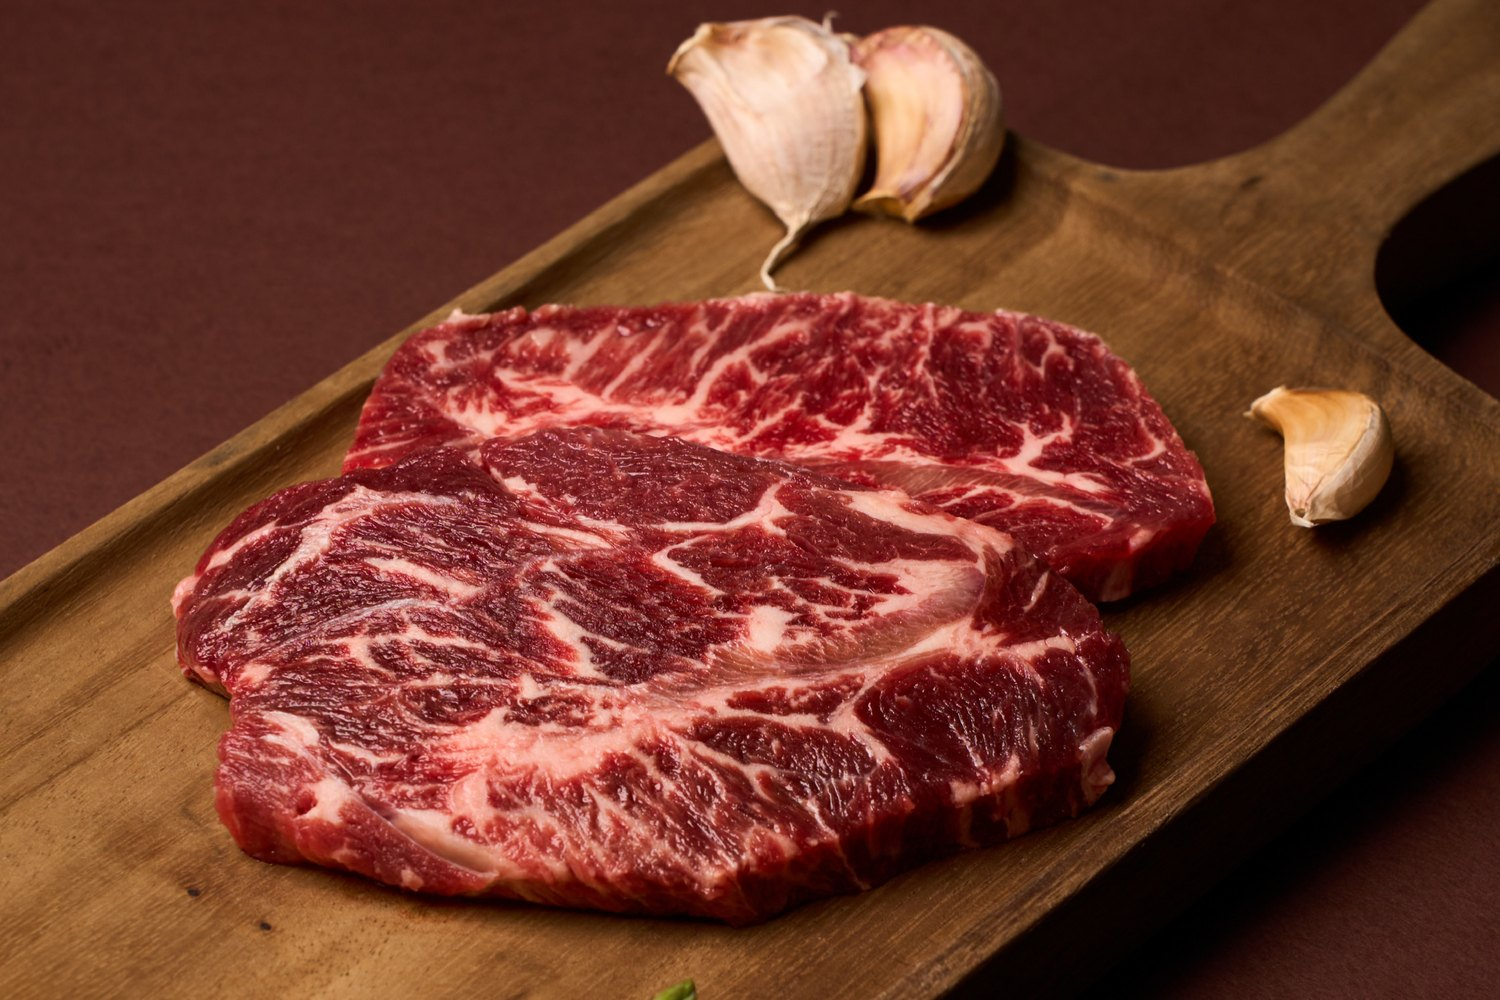
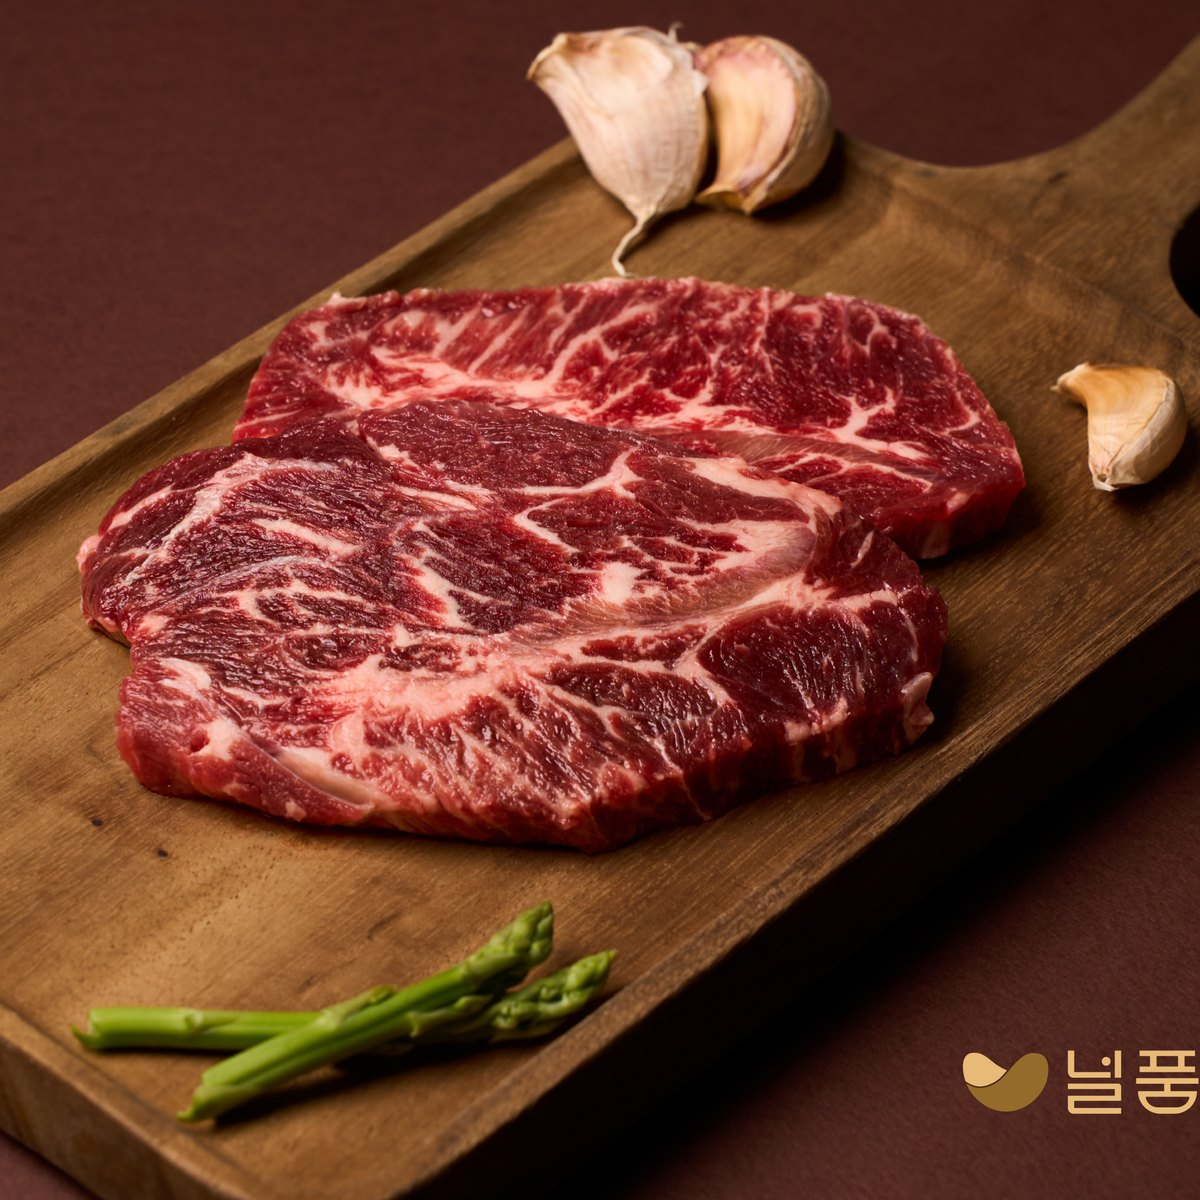
널품 사진 잘림 수정(정사각 비율·파우치 3종), 문의 버튼 문구 납품·OEM 문의
Claude-Session: https://claude.ai/code/session_01Lmtqzb1AoU67maoBcRVPk4

diff --git a/index.html b/index.html
@@ -20,7 +20,7 @@
 <link rel="icon" type="image/png" sizes="192x192" href="/favicon-192.png">
 <link rel="apple-touch-icon" href="/apple-touch-icon.png">
 <link rel="preload" href="./assets/font/PretendardVariable.woff2" as="font" type="font/woff2" crossorigin>
-<link rel="stylesheet" href="./style.css?v=2026.11.12c">
+<link rel="stylesheet" href="./style.css?v=2026.11.12e">
 </head>
 <body>
 <!--BODY-->
@@ -41,7 +41,7 @@
         <li><a href="#news">뉴스룸</a></li>
       </ul>
     </nav>
-    <a href="#contact" class="cta rip" data-magnet>납품·생산 문의</a>
+    <a href="#contact" class="cta rip" data-magnet>납품·OEM 문의</a>
     <button class="menu-btn" id="menuBtn" aria-label="메뉴 열기" aria-expanded="false"><span></span><span></span></button>
   </div>
 </header>
@@ -133,7 +133,7 @@
             <p class="tagline">정형 · 슬라이스 · 양념육 · 수비드 · 소포장</p></div></div>
         </article>
         <article class="biz" data-view tabindex="0">
-          <img src="./assets/photo/np-1.jpg?v=2" alt="널품 수비드 소 부채살 패키지" loading="lazy">
+          <img src="./assets/photo/np-1.jpg?v=3" alt="널품 수비드 소 부채살 패키지" loading="lazy">
           <span class="plus" aria-hidden="true">+</span>
           <div class="b-in"><span class="en">Retail Brand</span><h3>자체 브랜드 널품</h3>
             <div class="more"><p>널품(NURPOOM)은 널미트의 수비드 육류 브랜드입니다. 대표 제품인 수비드 부채살 스테이크를 비롯해 가정에서 간편하게 조리할 수 있는 육류 제품을 선보입니다.</p>
@@ -235,7 +235,7 @@
           <h2 class="title rv d1">자체 브랜드 널품</h2>
           <p class="lead rv d2">널품(NURPOOM)은 널미트의 수비드 육류 브랜드입니다. 대표 제품인 수비드 부채살 스테이크를 비롯해 가정에서 간편하게 조리할 수 있는 육류 제품을 선보입니다.</p>
         </div>
-        <div class="brand-ph rv"><img src="./assets/photo/nurpoom.png" alt="널품 수비드 제품 4종 패키지" loading="lazy"><div class="brand-two"><img src="./assets/photo/np-2.jpg?v=2" alt="널품 소 부채살 원육" loading="lazy"><img src="./assets/photo/np-3.jpg?v=2" alt="널품 부채살 스테이크 조리 예" loading="lazy"></div></div>
+        <div class="brand-ph rv"><img src="./assets/photo/nurpoom.png?v=2" alt="널품 수비드 부채살 패키지" loading="lazy"><div class="brand-two"><img src="./assets/photo/np-2.jpg?v=3" alt="널품 소 부채살 원육" loading="lazy"><img src="./assets/photo/np-3.jpg?v=3" alt="널품 부채살 스테이크 조리 예" loading="lazy"></div></div>
       </div>
     </div>
   </section>
@@ -301,7 +301,7 @@
     <div class="wrap">
       <div class="contact-grid">
         <div>
-          <h2 class="display rv d1">납품·생산 문의</h2>
+          <h2 class="display rv d1">납품·OEM 문의</h2>
           <p class="lead rv d2">희망 부위, 가공 규격, 포장 단위, 예상 발주량을 알려주시면 생산 가능 여부와 납품 조건을 안내드립니다.</p>
           <ul class="kinds rv d3"><li>프랜차이즈 납품</li><li>OEM · PB 생산</li><li>원료육 공급</li><li>제휴 · 협업</li></ul>
         </div>

diff --git a/style.css b/style.css
@@ -646,3 +646,6 @@ h1,h2,h3,.statement{text-wrap:balance}
   .feed-row{display:flex;gap:10px;overflow-x:auto;scroll-snap-type:x mandatory;-webkit-overflow-scrolling:touch;margin-top:56px;margin-right:calc(var(--pad) * -1);padding-right:var(--pad)}
   .feed-row figure{flex:0 0 72%;scroll-snap-align:start}
 }
+
+.brand-two img{aspect-ratio:1/1}
+.brand-two img:nth-child(2){margin-top:0}
